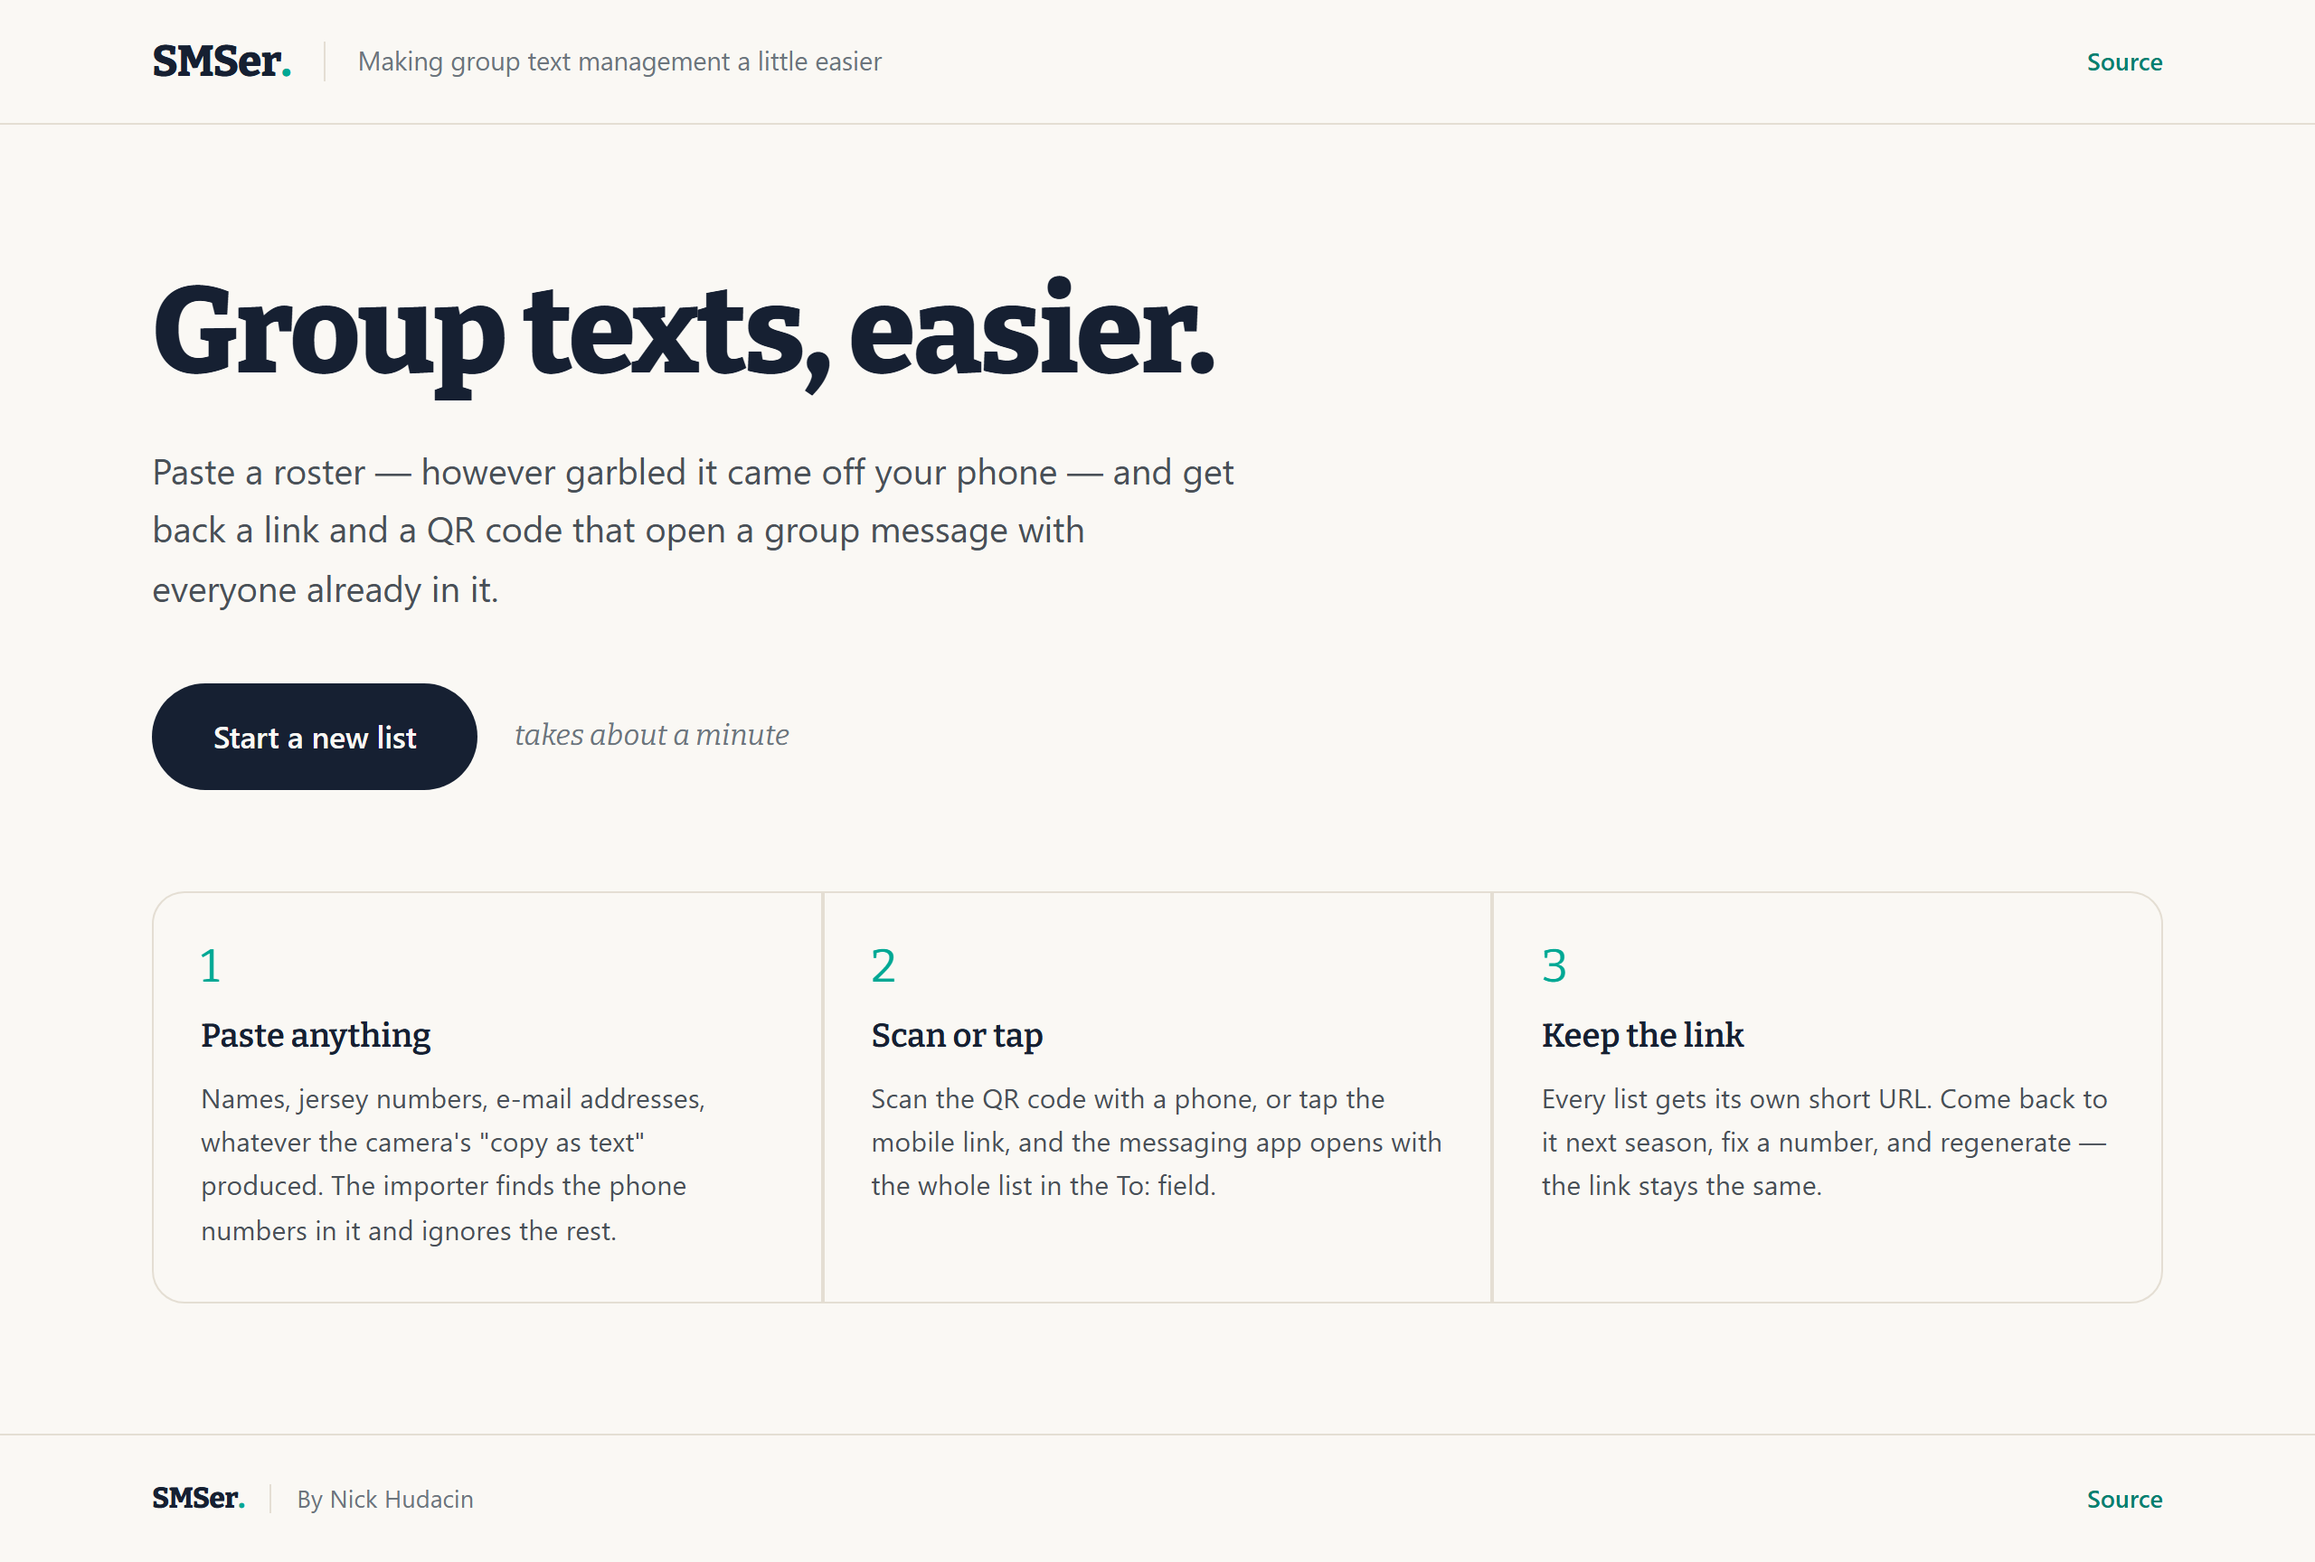
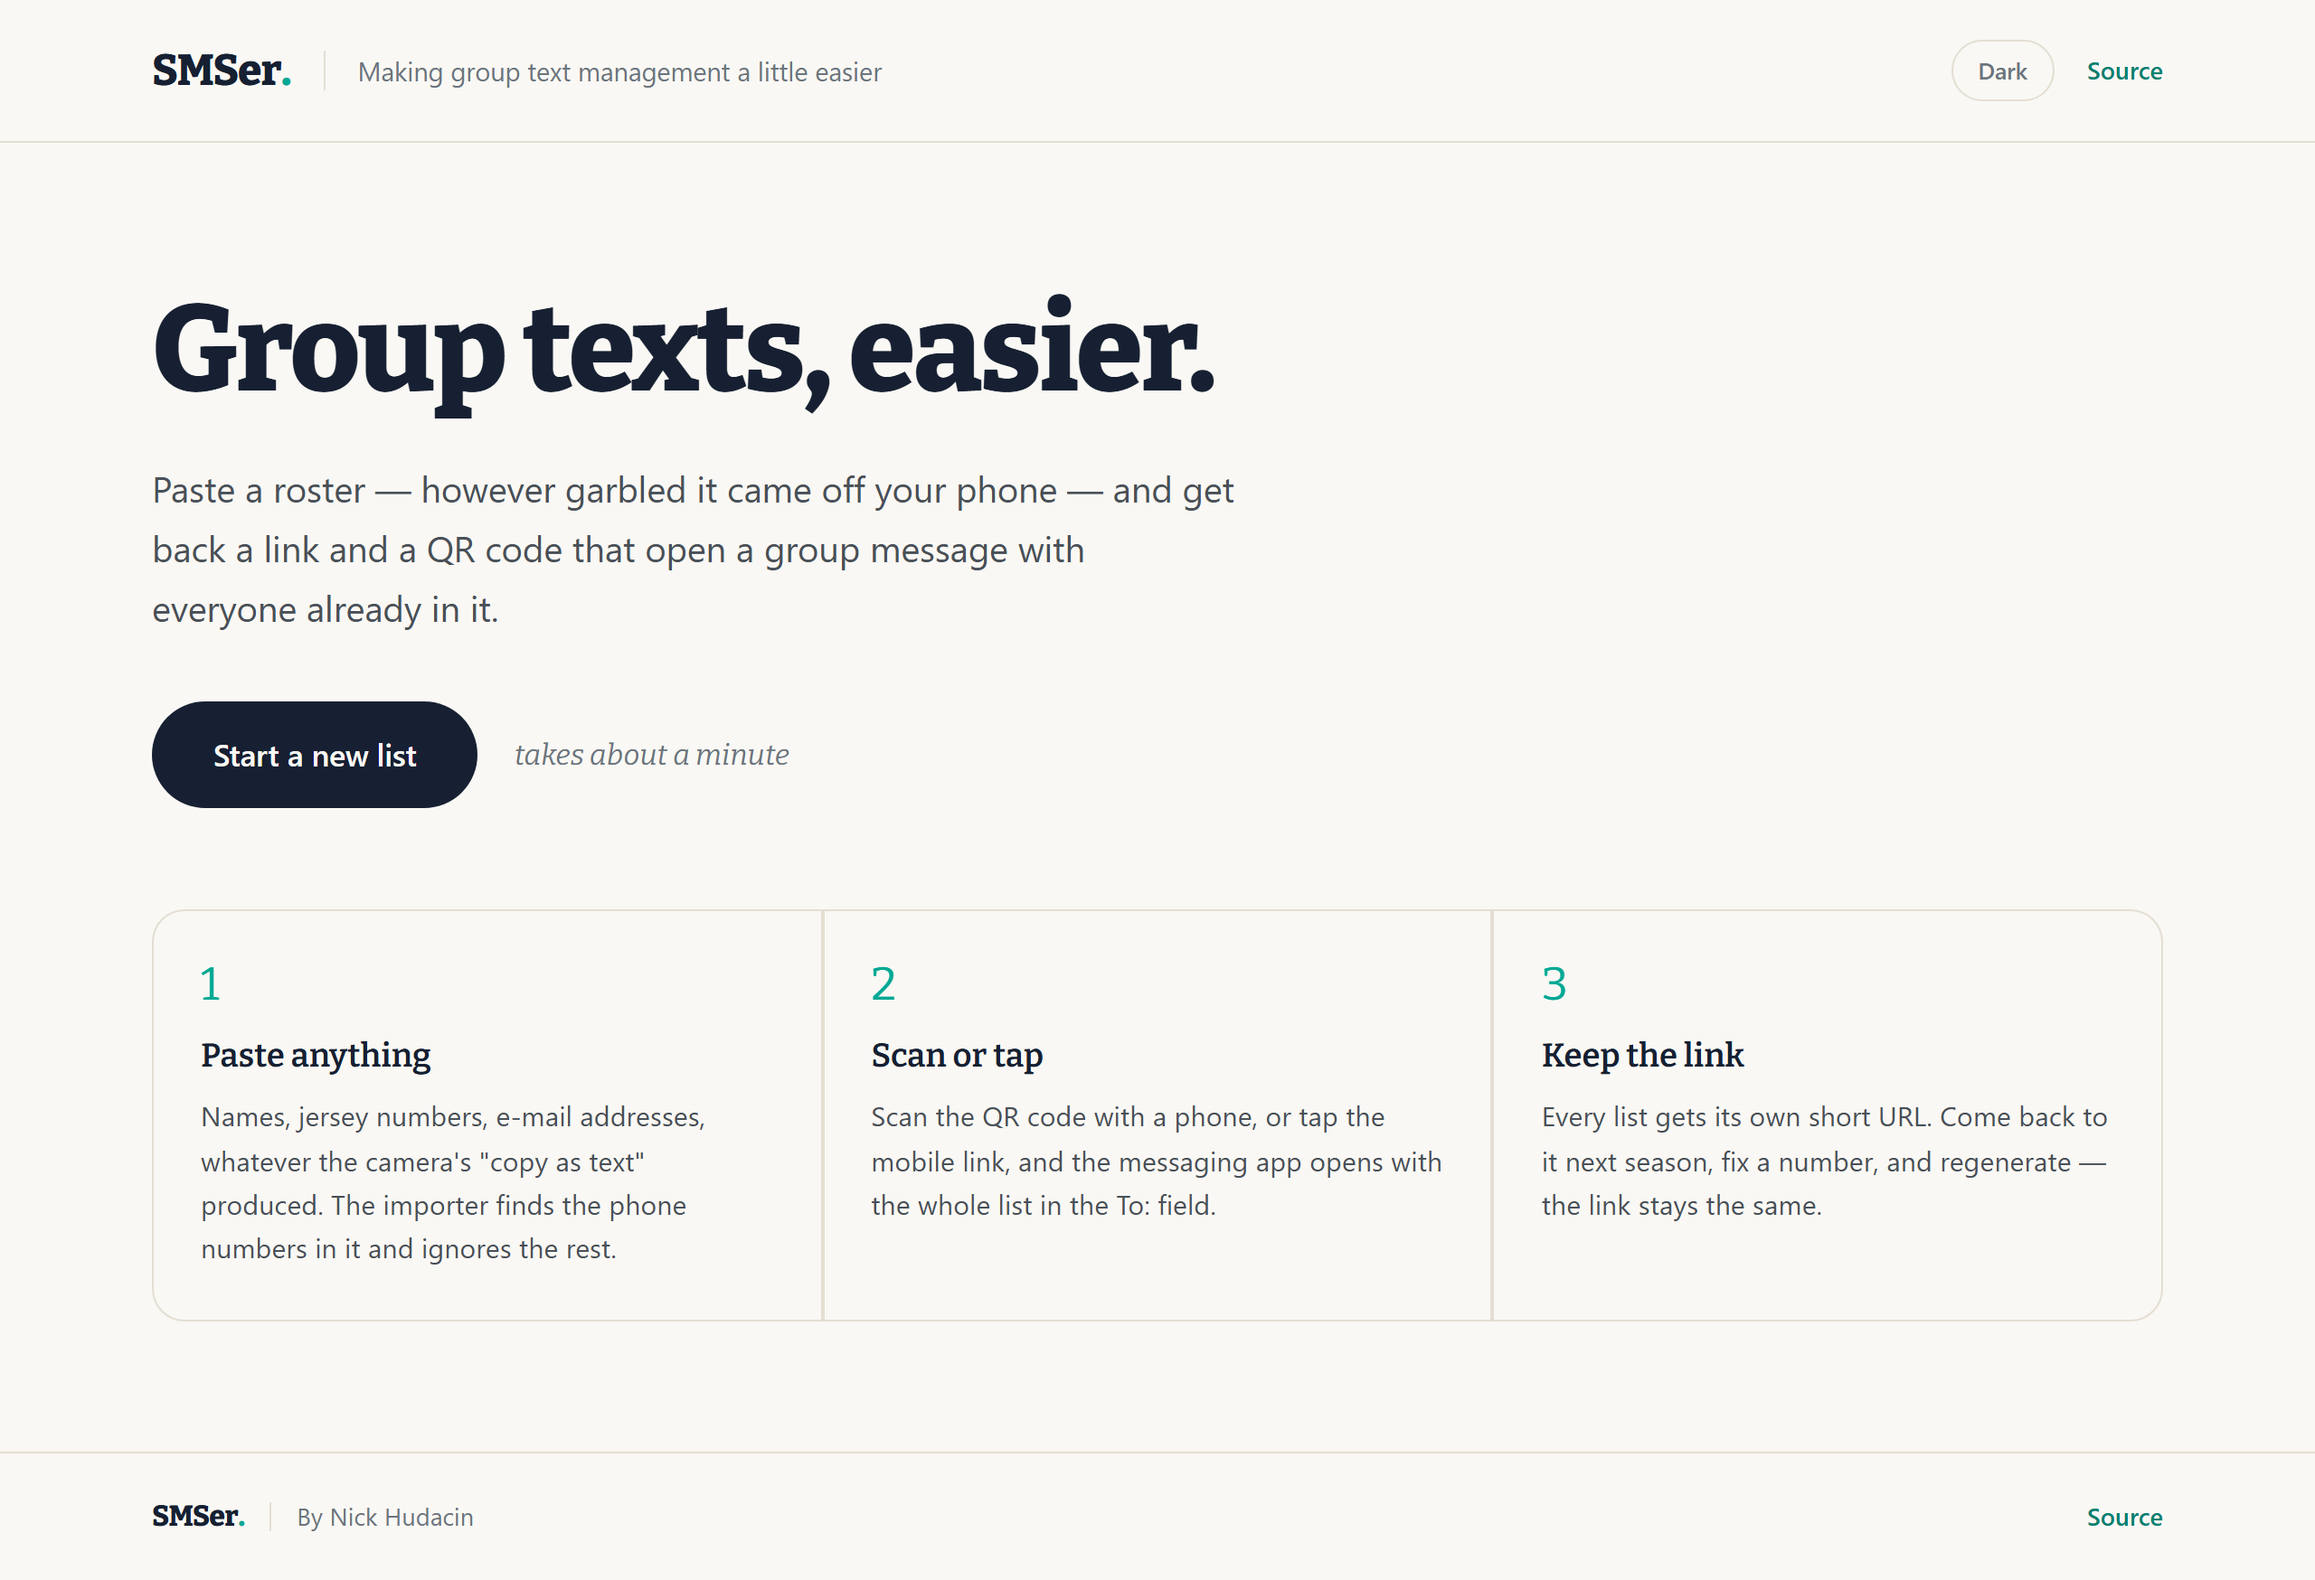
Default to light, and deploy from the package (#17)
Two unrelated fixes, both following from the redesign.

Light is now the default for everyone, and dark is a switch.

The palette used to sit behind `@media (prefers-color-scheme: dark)`, which
handed the decision to the handset -- so anyone whose phone is set to dark, which
is most people, never saw the rendering this app is designed around and had no
way to ask for it. Dark is now keyed off a data-theme attribute on <html>,
applied by a switch in the header and remembered in localStorage.

theme.js is loaded from <head> rather than with site.js at the bottom, and that
placement is the point: applied late, a reader who has chosen dark gets a full
flash of the light palette on every navigation, while the stylesheet is already
live and the attribute is not. It is an external file rather than an inline
script because script-src carries no 'unsafe-inline'. The switch ships hidden
and is revealed by that script, for the same reason the photo control is --
without JavaScript it could not switch anything, and the page is light anyway.

Storage access is guarded. localStorage throws rather than returning null with
site data blocked, and a reader in that state should still get a working page in
the default theme; the only thing lost is that the choice is not remembered.

Separately: the App Service now runs from its deployed package.

`azure/webapps-deploy` does an incremental file copy, so anything that
[…]

diff --git a/src/Smser.Web/wwwroot/css/site.css b/src/Smser.Web/wwwroot/css/site.css
@@ -7,8 +7,10 @@
   code presented as a tear-off card. The design handoff's prototypes used inline styles
   because that is how the prototype tool works; every one of those values lives here.
 
-  Light and dark are both defined here. The app is used on a phone, at a game, in
-  whatever the handset is set to.
+  Light and dark are both defined here, but the OS setting no longer picks between them.
+  Everyone gets light; dark is opt-in through the switch in the header, and the choice is
+  remembered. See theme.js for why that switch is applied in <head> rather than at the
+  bottom of the page.
 */
 
 /* ── the display face ────────────────────────────────────────────────────────
@@ -58,7 +60,7 @@
 }
 
 :root {
-    color-scheme: light dark;
+    color-scheme: light;
 
     --bg: #faf8f4;
     --bg-raised: #ffffff;
@@ -94,28 +96,34 @@
     --gutter: 64px;
 }
 
-@media (prefers-color-scheme: dark) {
-    :root {
-        --bg: #12100d;
-        --bg-raised: #1b1815;
-        --ink: #f2ede4;
-        --ink-hover: #f2ede4;
-        --ink-muted: #a39c90;
-        --ink-body: #c9c2b6;
-        --border: #302b25;
-        --accent: #2fd4bd;
-        --accent-ink: #12100d;
-        --accent-hover: #6ee3d3;
+/* Dark is chosen, not detected. Keyed off an attribute theme.js puts on <html>, so the
+   page is light until someone asks for otherwise — including for anyone with JavaScript
+   off, who gets the light palette and no switch rather than a control that does nothing.
 
-        /* Mint on the near-black paper is already past 4.5:1, so the strong variant and
-           the accent are the same colour here. The split only exists for light. */
-        --accent-strong: #2fd4bd;
-        --accent-strong-hover: #6ee3d3;
+   Deliberately not `@media (prefers-color-scheme: dark)`: that handed the decision to the
+   handset, and the light rendering is the one this app is designed around. */
+:root[data-theme="dark"] {
+    color-scheme: dark;
 
-        --danger: #fca5a5;
-        --notice-bg: #17231f;
-        --shadow: 0 2px 0 var(--border), 0 18px 40px rgba(0, 0, 0, .45);
-    }
+    --bg: #12100d;
+    --bg-raised: #1b1815;
+    --ink: #f2ede4;
+    --ink-hover: #f2ede4;
+    --ink-muted: #a39c90;
+    --ink-body: #c9c2b6;
+    --border: #302b25;
+    --accent: #2fd4bd;
+    --accent-ink: #12100d;
+    --accent-hover: #6ee3d3;
+
+    /* Mint on the near-black paper is already past 4.5:1, so the strong variant and the
+       accent are the same colour here. The split only exists for light. */
+    --accent-strong: #2fd4bd;
+    --accent-strong-hover: #6ee3d3;
+
+    --danger: #fca5a5;
+    --notice-bg: #17231f;
+    --shadow: 0 2px 0 var(--border), 0 18px 40px rgba(0, 0, 0, .45);
 }
 
 *, *::before, *::after { box-sizing: border-box; }
@@ -198,6 +206,27 @@ code {
 }
 
 .bar-source:hover { color: var(--accent-strong-hover); }
+
+/* The switch takes the auto margin, so it and Source sit together on the right rather
+   than being pushed to opposite ends by two competing auto margins. */
+.site-header .theme-toggle { margin-left: auto; }
+.site-header .bar-source { margin-left: 0; }
+
+.theme-toggle {
+    padding: 6px 14px;
+    font: inherit;
+    font-size: .8rem;
+    font-weight: 600;
+    color: var(--ink-muted);
+    background: transparent;
+    border: 1px solid var(--border);
+    border-radius: var(--radius-pill);
+    cursor: pointer;
+}
+
+.theme-toggle:hover { color: var(--ink); border-color: var(--ink-muted); }
+.theme-toggle:focus-visible { outline: 2px solid var(--accent); outline-offset: 2px; }
+.theme-toggle[aria-pressed="true"] { color: var(--ink); border-color: var(--accent); }
 
 .site-footer .brand { font-size: 1rem; }
 

diff --git a/src/Smser.Web/wwwroot/js/theme.js b/src/Smser.Web/wwwroot/js/theme.js
@@ -1,0 +1,88 @@
+// The light/dark switch.
+//
+// Two things happen here, and the order matters.
+//
+// First, the saved choice is applied to <html> before anything paints. That is why this
+// file is loaded from <head> and not from the bottom of the page with site.js: a reader
+// who has chosen dark would otherwise get a full flash of the light palette on every
+// navigation while the stylesheet is already applied and the attribute is not. It has to
+// be an external file rather than an inline <script>, because the Content-Security-Policy
+// in ServiceDefaults has no 'unsafe-inline' in script-src, and inline handlers are not
+// covered by nonces either.
+//
+// Second, once the DOM exists, the switch itself is revealed and wired. It ships hidden
+// for the same reason the photo control does: without JavaScript it could not do
+// anything, and a dead control is worse than no control. Anyone in that position gets the
+// light palette, which is the app's default anyway.
+//
+// The OS preference is deliberately not consulted. This app renders light by default for
+// everybody, and dark is something you ask for.
+(function () {
+    'use strict';
+
+    var KEY = 'smser-theme';
+    var DARK = 'dark';
+    var root = document.documentElement;
+
+    // localStorage throws rather than returning null in a few situations — Safari's
+    // private mode historically, and any browser with site data blocked. A reader with
+    // storage switched off should still get a working page in the default theme, so every
+    // access is guarded and a failure just means the choice is not remembered.
+    function saved() {
+        try {
+            return window.localStorage.getItem(KEY);
+        } catch (e) {
+            return null;
+        }
+    }
+
+    function remember(value) {
+        try {
+            window.localStorage.setItem(KEY, value);
+        } catch (e) {
+            // Not fatal: the theme still applies for this page view.
+        }
+    }
+
+    function apply(isDark) {
+        if (isDark) {
+            root.setAttribute('data-theme', DARK);
+        } else {
+            root.removeAttribute('data-theme');
+        }
+    }
+
+    // Before paint.
+    apply(saved() === DARK);
+
+    function wire() {
+        var toggle = document.querySelector('[data-theme-toggle]');
+        if (!toggle) return;
+
+        function sync() {
+            var isDark = root.getAttribute('data-theme') === DARK;
+
+            // aria-pressed is what makes this a switch to a screen reader rather than a
+            // button labelled "Dark" that appears to do nothing.
+            toggle.setAttribute('aria-pressed', isDark ? 'true' : 'false');
+        }
+
+        sync();
+        toggle.hidden = false;
+
+        toggle.addEventListener('click', function () {
+            var next = root.getAttribute('data-theme') !== DARK;
+
+            apply(next);
+            remember(next ? DARK : 'light');
+            sync();
+        });
+    }
+
+    // This file runs in <head>, so the header does not exist yet.
+    if (document.readyState === 'loading') {
+        document.addEventListener('DOMContentLoaded', wire);
+    } else {
+        wire();
+    }
+}());

diff --git a/src/Smser.Tests/AppearanceWiringTests.cs b/src/Smser.Tests/AppearanceWiringTests.cs
@@ -126,6 +126,51 @@ public class AppearanceWiringTests
     }
 
     [TestMethod]
+    public async Task Dark_is_chosen_rather_than_detected()
+    {
+        // The palette used to be behind prefers-color-scheme, which handed the decision to
+        // the handset. Putting that media query back would silently take the default away
+        // from every reader whose phone is set to dark — which is most of them — and the
+        // switch would then disagree with what they see on first load.
+        var css = await _app.GetPageAsync("/css/site.css");
+
+        // Comments stripped first. The stylesheet names prefers-color-scheme in a comment
+        // explaining why it is *not* used, and that comment is the thing most likely to
+        // stop a future reader putting it back — so the assertion has to look at the rules
+        // rather than the file.
+        var rules = Regex.Replace(css, @"/\*.*?\*/", string.Empty, RegexOptions.Singleline);
+
+        Assert.IsFalse(Regex.IsMatch(rules, @"@media[^{]*prefers-color-scheme"),
+            "the OS preference must not pick the palette; dark is opt-in via the switch");
+        StringAssert.Contains(css, ":root[data-theme=\"dark\"]",
+            "the dark palette is gone — the switch would have nothing to turn on");
+    }
+
+    [TestMethod]
+    public void The_theme_switch_is_hidden_until_script_reveals_it()
+    {
+        // Same rule as the photo control and the paste hint: without JavaScript it cannot
+        // switch anything, and the page is light either way.
+        Assert.IsTrue(Regex.IsMatch(_home, @"<button type=""button"" class=""theme-toggle"" data-theme-toggle aria-pressed=""false"" hidden>"),
+            "the theme switch must render hidden, with aria-pressed");
+    }
+
+    [TestMethod]
+    public async Task The_theme_script_is_loaded_before_the_page_paints()
+    {
+        // In <head>, not with site.js at the bottom. Loaded late it still works, but a
+        // reader who chose dark gets a full flash of the light palette on every
+        // navigation — which looks like a bug and is invisible to anyone testing in light.
+        var head = Regex.Match(_home, @"<head>.*?</head>", RegexOptions.Singleline).Value;
+
+        StringAssert.Contains(head, "/js/theme.js", "theme.js must load in <head>");
+
+        var response = await _app.HeadAsync("/js/theme.js");
+
+        Assert.AreEqual(HttpStatusCode.OK, response.StatusCode, "theme.js is not being served");
+    }
+
+    [TestMethod]
     public void The_step_numerals_are_hidden_from_assistive_technology()
     {
         // They are ornament — the headings already carry the order, and "one, Paste

diff --git a/README.md b/README.md
@@ -51,7 +51,7 @@ the whole roster already filled in.
 | **QR code or link** | Scan the code, or tap the mobile link. Both open a group message with everyone in the To: field. |
 | **Shareable, editable** | Every list gets its own short URL. Come back next season, fix a number, regenerate — the link stays the same. |
 | **Works without JavaScript** | Import and Generate are real form posts. The only script on the page is the copy-link button. |
-| **Light and dark** | Theme-aware, and sized for the phone you are actually holding at the game. |
+| **Light and dark** | Light by default for everyone; dark is a switch in the header that remembers your choice. Sized for the phone you are actually holding at the game. |
 | **Locked down** | Strict CSP with no `unsafe-inline`, layered bot protection, per-caller rate limits, security headers, and no sign-in to leak. |
 
 ## 📸 Screenshots
